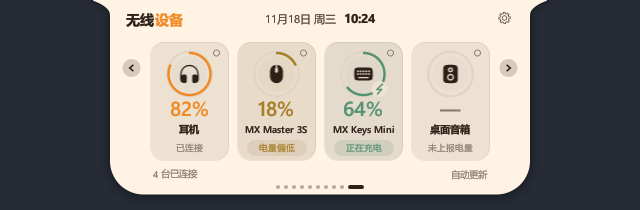
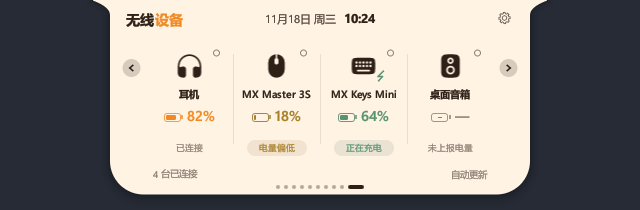
在岛内显示设备小电池并支持点开读数详情

Changed region(s): [[0.25, 0.2, 0.75, 0.7714]]

diff --git a/src/bluetooth_ui.rs b/src/bluetooth_ui.rs
@@ -1,6 +1,6 @@
-//! 无线设备卡片、电量环与常驻入口。
+//! 无线设备图标、小电池与常驻入口。
 use crate::{app::{App,Env,BLUETOOTH_PAGE},bt::Device,paint::{self,Card,H},theme::{self,W},bar_layout};
-use std::{f32::consts::{FRAC_PI_2,TAU},time::Instant};
+use std::time::Instant;
 
 fn charging(device:&Device)->bool {
     !device.stale_at(Instant::now())&&device.reading.as_ref().is_some_and(|r|r.charging==Some(true))
@@ -15,9 +15,29 @@ fn color(device:&Device)->eframe::egui::Color32 {
     else if device.battery.is_some_and(|b|b<20) {theme::YELLOW}
     else {theme::CYAN}
 }
+fn status(device:&Device)->&'static str {
+    if !device.connected{"已断开"}
+    else if device.stale_at(Instant::now()){"读数待更新"}
+    else if device.battery.is_none(){"未上报电量"}
+    else if charging(device){"正在充电"}
+    else if device.battery.is_some_and(|b|b<=5){"即将耗尽"}
+    else if device.battery.is_some_and(|b|b<20){"电量偏低"}
+    else{"已连接"}
+}
 fn label(device:&Device)->String {
     let value=device.battery.map(|v|format!("{v}%")).unwrap_or_else(||"—".into());
     if device.stale_at(Instant::now())&&device.battery.is_some(){format!("上次 {value}")}else{value}
+}
+/// 小电池与设备图标分开绘制。缺少当前读数时只画短横线。
+fn mini_battery(c:&Card,x:f32,y:f32,device:&Device) {
+    let col=color(device);
+    c.stroke(x,y,16.0,8.0,2.0,1.0,paint::alpha(col,0.8));
+    c.fill(x+17.0,y+2.0,1.5,4.0,0.7,col);
+    match device.battery.filter(|_| !device.stale_at(Instant::now())) {
+        Some(level) if level>0 => c.fill(x+1.5,y+1.5,(13.0*level as f32/100.0).max(1.0),5.0,0.8,col),
+        None => c.seg((x+6.0,y+4.0),(x+10.0,y+4.0),1.0,col),
+        _ => {}
+    }
 }
 impl App {
     pub(crate) fn wireless_resident(&self)->Vec<Device> {
@@ -34,7 +54,8 @@ impl App {
             crate::extras::device_icon(c,device.kind,x,7.5,15.0);
             if charging(device){bolt(c,x+13.0,8.0,theme::SOFT_GREEN);}
             let text=if device.stale_at(Instant::now()){"—".into()}else{label(device)};
-            c.text(x+19.0,19.0,&text,10.5,W::Semibold,color(device),H::Left);
+            mini_battery(c,x+20.0,6.0,device);
+            c.text(x+29.0,24.0,&text,9.0,W::Semibold,color(device),H::Center);
             if c.hit(x-2.0,2.0,49.0,26.0,("wireless-resident",&device.id)).on_hover_text(format!("{} · {}",device.name,label(device))).clicked(){self.show_page(BLUETOOTH_PAGE);}
         }
     }
@@ -43,11 +64,19 @@ impl App {
         crate::extras::device_icon(c,device.kind,cx-8.0,y-14.0,16.0);
         if charging(&device){bolt(c,cx+10.0,y-10.0,theme::SOFT_GREEN);}
         let text=if device.stale_at(Instant::now()){"—".into()}else{label(&device)};
-        c.text(cx,y+15.0,&text,9.5,W::Semibold,color(&device),H::Center);
+        mini_battery(c,cx-9.0,y+3.0,&device);
+        c.text(cx,y+19.0,&text,8.0,W::Semibold,color(&device),H::Center);
         if c.hit(cx-17.0,y-18.0,34.0,37.0,"wireless-side").on_hover_text(&device.name).clicked(){self.show_page(BLUETOOTH_PAGE);}
     }
     pub(crate) fn page_wireless(&mut self,c:&Card,env:&Env) {
         let devices=self.wireless_devices.clone();
+        if let Some(id)=self.wireless_focus.as_ref() {
+            if let Some(device)=devices.iter().find(|d|&d.id==id) {
+                self.wireless_detail(c,device);
+                return;
+            }
+            self.wireless_focus=None;
+        }
         if devices.is_empty(){
             crate::extras::device_icon(c,crate::bt::DeviceKind::Other,191.5,51.0,36.0);
             c.text(209.5,112.0,if env.bt_ready{"还没有连接的设备"}else{"正在读取无线设备"},13.0,W::Semibold,theme::WHITE,H::Center);
@@ -60,18 +89,17 @@ impl App {
             let x=start+index as f32*87.0;let cc=c.shifted(x,42.0);
             let col=color(device);let stale=device.stale_at(Instant::now());let charging=charging(device);
             let attention=!stale&&(charging||device.battery.is_some_and(|v|v<20));
-            cc.fill(0.0,0.0,78.0,118.0,13.0,theme::CARD);
-            if attention {cc.fill(0.0,0.0,78.0,118.0,13.0,paint::alpha(col,0.045));}
-            cc.stroke(0.0,0.0,78.0,118.0,13.0,0.7,paint::alpha(if attention{col}else{theme::GRAY},0.15));
-            cc.circle(39.0,32.0,18.0,paint::alpha(col,0.035));
-            cc.ring(39.0,32.0,21.0,2.5,theme::TRACK);
-            if let Some(level)=device.battery.filter(|v|*v>0){cc.arc(39.0,32.0,21.0,-FRAC_PI_2,-FRAC_PI_2+TAU*level as f32/100.0,2.5,paint::alpha(col,if stale{0.45}else{1.0}));}
-            crate::extras::device_icon(&cc,device.kind,28.0,21.0,22.0);
-            if charging {cc.circle(55.0,47.0,8.0,theme::CARD);bolt(&cc,55.0,47.0,col);}
-            cc.text(39.0,74.0,&label(device),if stale{10.0}else{20.0},W::Semibold,col,H::Center);
-            let name=cc.fit(&device.name,10.0,W::Semibold,66.0);
-            cc.text(39.0,91.0,&name,10.0,W::Semibold,theme::WHITE,H::Center);
-            let status=if !device.connected{"已断开"}else if stale{"读数待更新"}else if device.battery.is_none(){"未上报电量"}else if charging{"正在充电"}else if device.battery.is_some_and(|b|b<=5){"即将耗尽"}else if device.battery.is_some_and(|b|b<20){"电量偏低"}else{"已连接"};
+            if index>0 { cc.seg((-4.5,12.0),(-4.5,103.0),0.7,theme::TRACK); }
+            crate::extras::device_icon(&cc,device.kind,25.0,10.0,28.0);
+            if charging {bolt(&cc,56.0,34.0,col);}
+            let name=cc.fit(&device.name,10.5,W::Semibold,74.0);
+            cc.text(39.0,56.0,&name,10.5,W::Semibold,theme::WHITE,H::Center);
+            let reading=label(device);
+            let size=if stale{10.0}else{14.0};
+            let left=(78.0-23.0-cc.text_w(&reading,size,W::Semibold))/2.0;
+            mini_battery(&cc,left,71.0,device);
+            cc.text(left+23.0,79.0,&reading,size,W::Semibold,col,H::Left);
+            let status=status(device);
             if attention {cc.fill(9.0,98.0,60.0,16.0,8.5,paint::alpha(col,0.10));}
             cc.text(39.0,109.0,status,9.0,W::Regular,if attention{col}else{theme::DIM},H::Center);
             let pinned=self.settings.bluetooth_pinned.contains(&device.id);
@@ -84,7 +112,10 @@ impl App {
                 self.settings.save();
             }
             let details=device.reading.as_ref().map(|r|format!("{}\n{} · {} 秒前读取",device.name,r.source.label(),r.at.elapsed().as_secs())).unwrap_or_else(||format!("{}\n设备尚未提供可用电量",device.name));
-            cc.hit(0.0,24.0,78.0,94.0,("wireless-device",&device.id)).on_hover_text(details);
+            let icon_clicked=cc.hit(0.0,0.0,54.0,24.0,("wireless-icon",&device.id)).on_hover_text(&details).clicked();
+            if cc.hit(0.0,24.0,78.0,94.0,("wireless-device",&device.id)).on_hover_text(details).clicked() || icon_clicked {
+                self.wireless_focus=Some(device.id.clone());
+            }
         }
         let count=devices.iter().filter(|d|d.connected).count();
         c.text(42.0,178.0,&format!("{count} 台已连接"),9.5,W::Regular,theme::DIM,H::Left);
@@ -96,4 +127,20 @@ impl App {
             }
         }else{c.text(377.0,178.0,"自动更新",9.5,W::Regular,theme::DIM,H::Right);}
     }
+    fn wireless_detail(&mut self,c:&Card,device:&Device) {
+        let col=color(device);
+        crate::extras::device_icon(c,device.kind,58.0,65.0,42.0);
+        c.text(120.0,64.0,&c.fit(&device.name,15.0,W::Semibold,230.0),15.0,W::Semibold,theme::WHITE,H::Left);
+        let text=label(device);
+        let width=c.text(119.0,105.0,&text,29.0,W::Bold,col,H::Left);
+        mini_battery(c,128.0+width,88.0,device);
+
+        c.text(120.0,127.0,status(device),11.0,W::Semibold,col,H::Left);
+        if let Some(reading)=&device.reading {
+            c.text(120.0,144.0,reading.source.label(),10.0,W::Regular,theme::DIM,H::Left);
+        }
+        c.text(209.5,177.0,"返回设备总览",11.0,W::Semibold,theme::GRAY,H::Center);
+        if c.hit(161.0,158.0,97.0,24.0,"wireless-back").clicked(){self.wireless_focus=None;}
+    }
+
 }

diff --git a/src/bluetooth_ui_tests.rs b/src/bluetooth_ui_tests.rs
@@ -67,18 +67,37 @@ fn wireless_cards_stay_centered_with_one_to_four_devices(){
 }
 
 #[test]
+fn wireless_device_opens_and_returns_inside_island(){
+    let _g=ENV_LOCK.lock().unwrap_or_else(|e|e.into_inner());
+    let mut h=H::new();h.bt=fixture();h.app.show_page(BLUETOOTH_PAGE);
+    h.hover(H::local(200.0,100.0),1.0);
+    let tile=h.ctx.read_response(egui::Id::new(("card",true,("wireless-device","device-1")))).unwrap();
+    h.click(tile.rect.center());
+    assert_eq!(h.app.wireless_focus.as_deref(),Some("device-1"));
+    h.frame(vec![]);
+    let back=h.ctx.read_response(egui::Id::new(("card",true,"wireless-back"))).unwrap();
+    h.click(back.rect.center());
+    assert!(h.app.wireless_focus.is_none());
+    assert_eq!(h.app.page(),BLUETOOTH_PAGE);
+}
+
+#[test]
 fn wireless_native_preview(){
     let Some(dest)=std::env::var_os("DAOZAI_BLUETOOTH_PREVIEW_DIR") else{return;};
     let _g=ENV_LOCK.lock().unwrap_or_else(|e|e.into_inner());let dest=std::path::PathBuf::from(dest);std::fs::create_dir_all(&dest).unwrap();
-    for (name,skin) in [("native-dark.png",crate::model::Skin::Classic),("native-cream.png",crate::model::Skin::Cream)]{
-        let mut h=H::new();h.app.settings.skin=skin;h.app.settings.bluetooth_notifications=false;h.bt=fixture();h.bt[2].reading.as_mut().unwrap().charging=Some(true);h.app.show_page(BLUETOOTH_PAGE);
-        let mut raster=crate::preview_raster::Raster::new(640,210);
+    for (name,skin) in [("native-dark.png",crate::model::Skin::Classic),("native-cream.png",crate::model::Skin::Cream),("native-resident.png",crate::model::Skin::Classic),("native-detail.png",crate::model::Skin::Classic)]{
+        let mut h=H::new();h.app.settings.skin=skin;h.app.settings.bluetooth_notifications=false;h.bt=fixture();h.bt[2].reading.as_mut().unwrap().charging=Some(true);
+        let resident=name=="native-resident.png";
+        if !resident {h.app.show_page(BLUETOOTH_PAGE);}
+        if name=="native-detail.png" {h.app.wireless_focus=Some(h.bt[1].id.clone());}
+        let height=if resident{50}else{210};
+        let mut raster=crate::preview_raster::Raster::new(640,height);
         for frame in 0..65 {
-            let env=crate::app::Env{t:frame as f64/60.0,clock:"10:24:00".into(),date:"11月18日 周三".into(),bt:h.bt.clone(),bt_ready:true,cursor:Some(H::local(200.0,100.0)),..Default::default()};
-            let out=h.ctx.run(egui::RawInput{screen_rect:Some(Rect::from_min_size(Pos2::ZERO,egui::vec2(640.0,210.0))),..Default::default()},|ctx|{egui::CentralPanel::default().frame(egui::Frame::new()).show(ctx,|ui|{h.app.frame(ui,Rect::from_min_size(Pos2::ZERO,egui::vec2(WIN_W,WIN_H)),&env);});});
+            let env=crate::app::Env{t:frame as f64/60.0,clock:"10:24:00".into(),date:"11月18日 周三".into(),bt:h.bt.clone(),bt_ready:true,cursor:if resident{None}else{Some(H::local(200.0,100.0))},..Default::default()};
+            let out=h.ctx.run(egui::RawInput{screen_rect:Some(Rect::from_min_size(Pos2::ZERO,egui::vec2(640.0,height as f32))),..Default::default()},|ctx|{egui::CentralPanel::default().frame(egui::Frame::new()).show(ctx,|ui|{h.app.frame(ui,Rect::from_min_size(Pos2::ZERO,egui::vec2(WIN_W,WIN_H)),&env);});});
             raster.update_textures(&out.textures_delta);
             if frame==64 {raster.buf.fill([0.15,0.17,0.21,1.0]);raster.draw(&h.ctx.tessellate(out.shapes,1.0),1.0);}
         }
-        let mut bytes=vec![];raster.to_rgba8(&mut bytes);image::save_buffer(dest.join(name),&bytes,640,210,image::ColorType::Rgba8).unwrap();
+        let mut bytes=vec![];raster.to_rgba8(&mut bytes);image::save_buffer(dest.join(name),&bytes,640,height as u32,image::ColorType::Rgba8).unwrap();
     }
 }

diff --git a/src/app.rs b/src/app.rs
@@ -878,6 +878,7 @@ pub struct App {
     pub(crate) bt_shown: Vec<crate::bt::Device>,
     pub(crate) wireless_devices: Vec<crate::bt::Device>,
     pub(crate) wireless_offset: usize,
+    pub(crate) wireless_focus: Option<String>,
     bt_initialized: bool,
     /// v0.5.5：邮件账号、最近邮件与设置表单。
     pub(crate) mail: MailState,
@@ -1014,7 +1015,7 @@ impl App {
             music_seek_ui: None,
             music_seek_quiet_until: 0.0,
             music_restart_at: None,
-            bt_shown: Vec::new(), wireless_devices:Vec::new(),wireless_offset:0,
+            bt_shown: Vec::new(), wireless_devices:Vec::new(),wireless_offset:0,wireless_focus:None,
             bt_initialized: false,
             mail: MailState { accounts: mail::load_accounts(), ..Default::default() },
             mail_lines_cache: Vec::new(),
